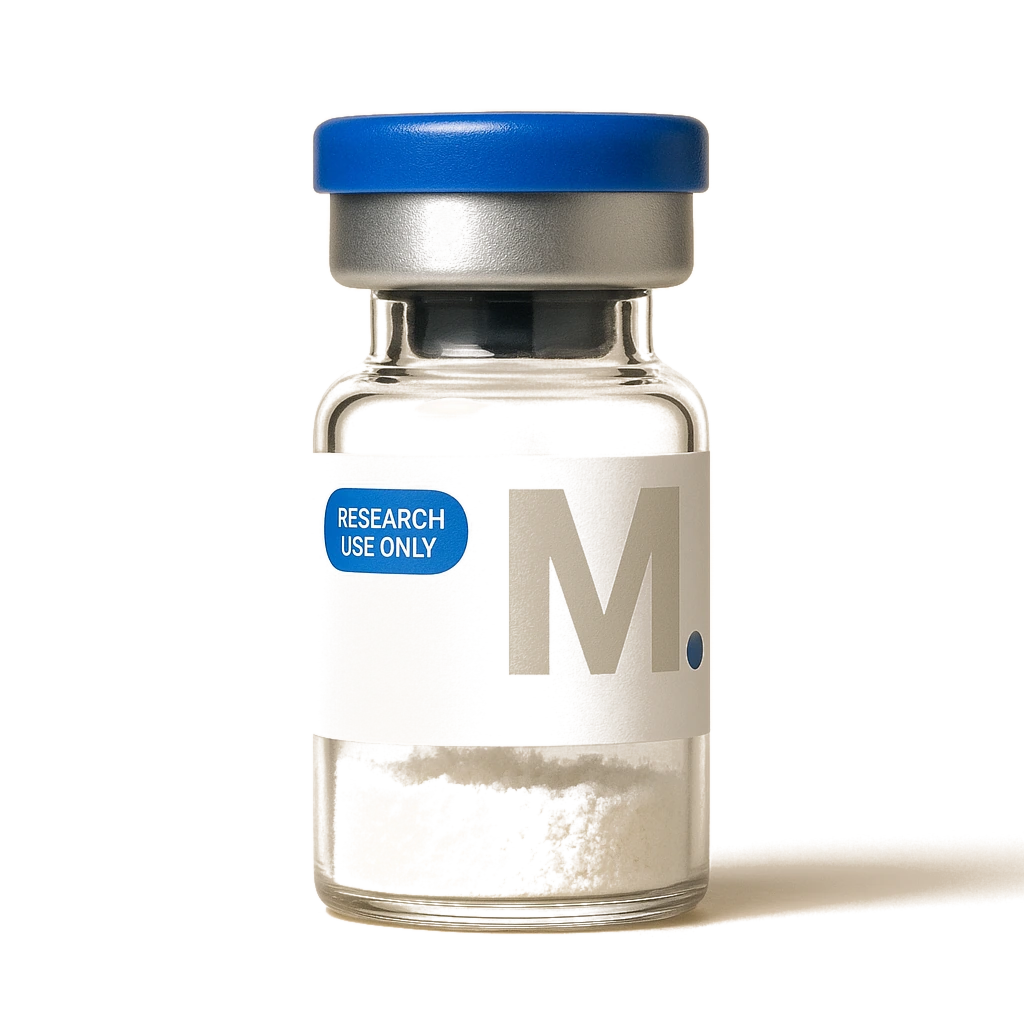
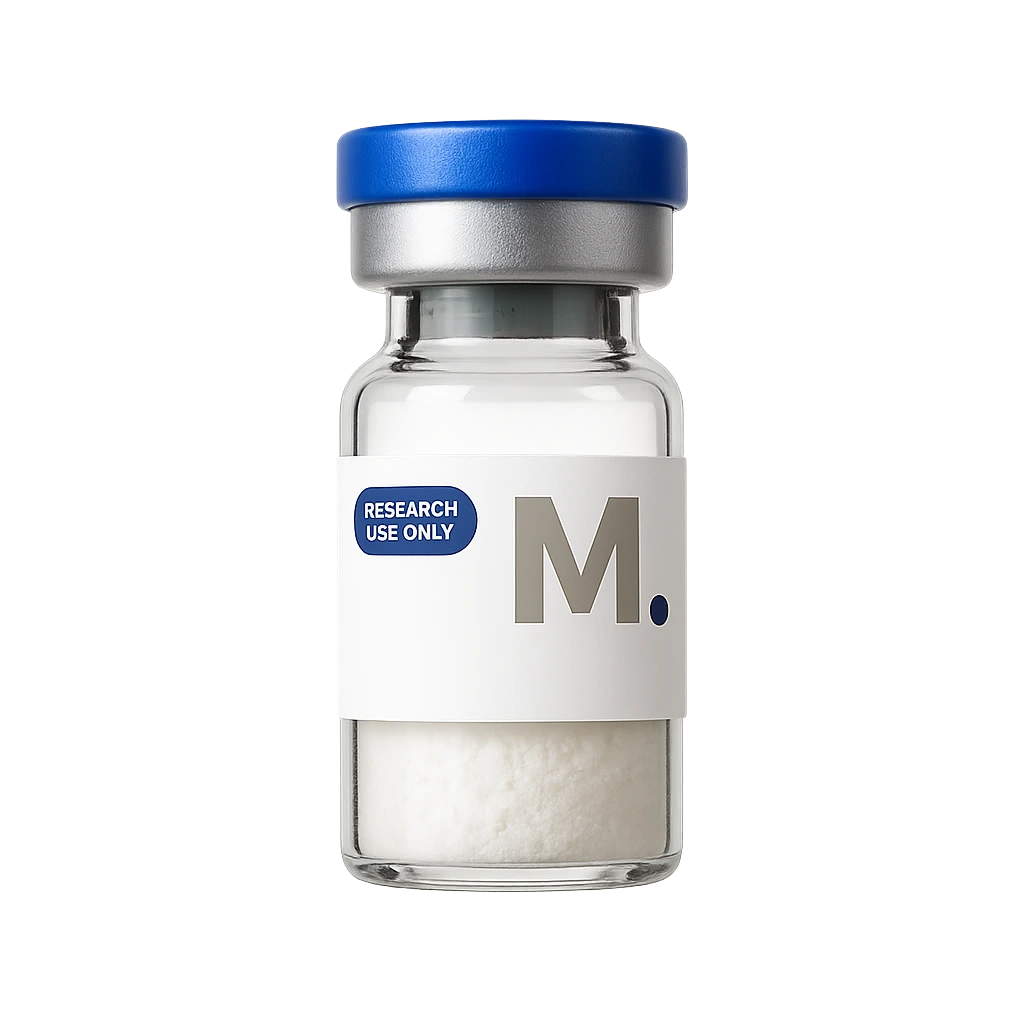
Fix broken transparent vial — native AI transparency, not color cutout
The PIL alpha-cutout in make-transparent-vial.py couldn't distinguish
the white label from the warm-cream studio sweep — same color family.
Result: label went transparent, shadow stayed opaque (the opposite of
what we wanted).

Switched to gpt-image-1's native background=transparent parameter via
gen-transparent-vial.py. Generates the vial against true alpha from
the start, so the label stays solid white and there's no surface
shadow to leak through.

Changed region(s): [[0.2812, 0.0938, 1.0, 0.9375]]

diff --git a/scripts/gen-transparent-vial.py b/scripts/gen-transparent-vial.py
@@ -1,0 +1,92 @@
+#!/usr/bin/env python3
+"""
+gen-transparent-vial.py — Generate a transparent-background canonical
+Merit vial directly via gpt-image-1's background=transparent param.
+
+Beats the alpha-cutout approach (make-transparent-vial.py) which
+couldn't tell the white label from the cream studio backdrop and
+ended up making the label transparent + keeping the shadow.
+
+Output: public/brand/merit-vial-canonical-transparent.webp
+Cost: $0.19 (one high-quality generation)
+"""
+import os, sys, base64, subprocess
+from pathlib import Path
+
+HERE = Path(__file__).parent.parent
+REPO_ROOT = HERE
+PEPTIDES_ENV = REPO_ROOT.parent / "Merit Peptides" / ".env"
+LOCAL_ENV = REPO_ROOT / ".env.local"
+DEST = REPO_ROOT / "public" / "brand" / "merit-vial-canonical-transparent.webp"
+
+for env_path in (PEPTIDES_ENV, LOCAL_ENV):
+    if env_path.exists():
+        for line in env_path.read_text().splitlines():
+            if "=" in line and not line.strip().startswith("#"):
+                k, _, v = line.partition("=")
+                os.environ.setdefault(k.strip(), v.strip().strip('"').strip("'"))
+
+PROMPT = (
+    "Photorealistic studio product photograph of a single pharmaceutical "
+    "peptide vial on a fully transparent background — no studio sweep, "
+    "no shadow on a surface, just the vial floating in empty transparent "
+    "space. Cobalt blue aluminum crimp cap (#2E4DDB) with slight metallic "
+    "sheen and silver collar. Clear glass body. Lyophilized white powder "
+    "fills the bottom one third of the vial. "
+    "Wrapped around the lower half of the vial is a clean WHITE landscape "
+    "rectangular label with THREE elements: (1) upper-left of the label: "
+    "a small cobalt blue pill-shaped badge reading 'RESEARCH USE ONLY' in "
+    "tiny white all-caps sans-serif. (2) RIGHT side of the label: a large "
+    "pale beige-grey letter 'M' followed by a period, rendered in modern "
+    "GEOMETRIC SANS-SERIF (Inter Black or Helvetica Black), clean uniform "
+    "strokes, no serifs. Soft beige-grey #D8D5CD, occupying the right 30% "
+    "of the label. To the right of the M's period, vertically centered, a "
+    "small solid cobalt blue dot. (3) Left-center of the label: completely "
+    "EMPTY white space (no text). "
+    "Soft warm studio lighting on the vial itself, but absolutely NO "
+    "background, NO shadow on a surface, NO floor, NO sweep — pure "
+    "transparent alpha behind and around the vial. Photoreal — not an "
+    "illustration."
+)
+
+
+def main():
+    quality = "high" if "--quality=high" in sys.argv or "--high" in sys.argv else "medium"
+    if not os.environ.get("OPENAI_API_KEY"):
+        print("ERROR: OPENAI_API_KEY not set"); sys.exit(1)
+
+    from openai import OpenAI
+    client = OpenAI(api_key=os.environ["OPENAI_API_KEY"])
+    print(f"Generating transparent canonical vial (quality={quality})...")
+
+    result = client.images.generate(
+        model="gpt-image-1",
+        prompt=PROMPT,
+        size="1024x1024",
+        quality=quality,
+        background="transparent",
+        n=1,
+    )
+    b64 = result.data[0].b64_json
+    if not b64:
+        print("ERROR: no image data"); sys.exit(1)
+
+    # Write PNG then convert to WebP preserving alpha
+    tmp = DEST.with_suffix(".png")
+    tmp.write_bytes(base64.b64decode(b64))
+    DEST.parent.mkdir(parents=True, exist_ok=True)
+
+    r = subprocess.run(
+        ["cwebp", "-q", "92", "-alpha_q", "100", "-quiet", str(tmp), "-o", str(DEST)],
+        capture_output=True,
+    )
+    if r.returncode == 0:
+        tmp.unlink()
+        print(f"✓ {DEST.relative_to(REPO_ROOT)}  ({DEST.stat().st_size // 1024} KB)")
+    else:
+        print(f"⚠ cwebp failed, keeping PNG at {tmp.relative_to(REPO_ROOT)}")
+        print(r.stderr.decode())
+
+
+if __name__ == "__main__":
+    main()